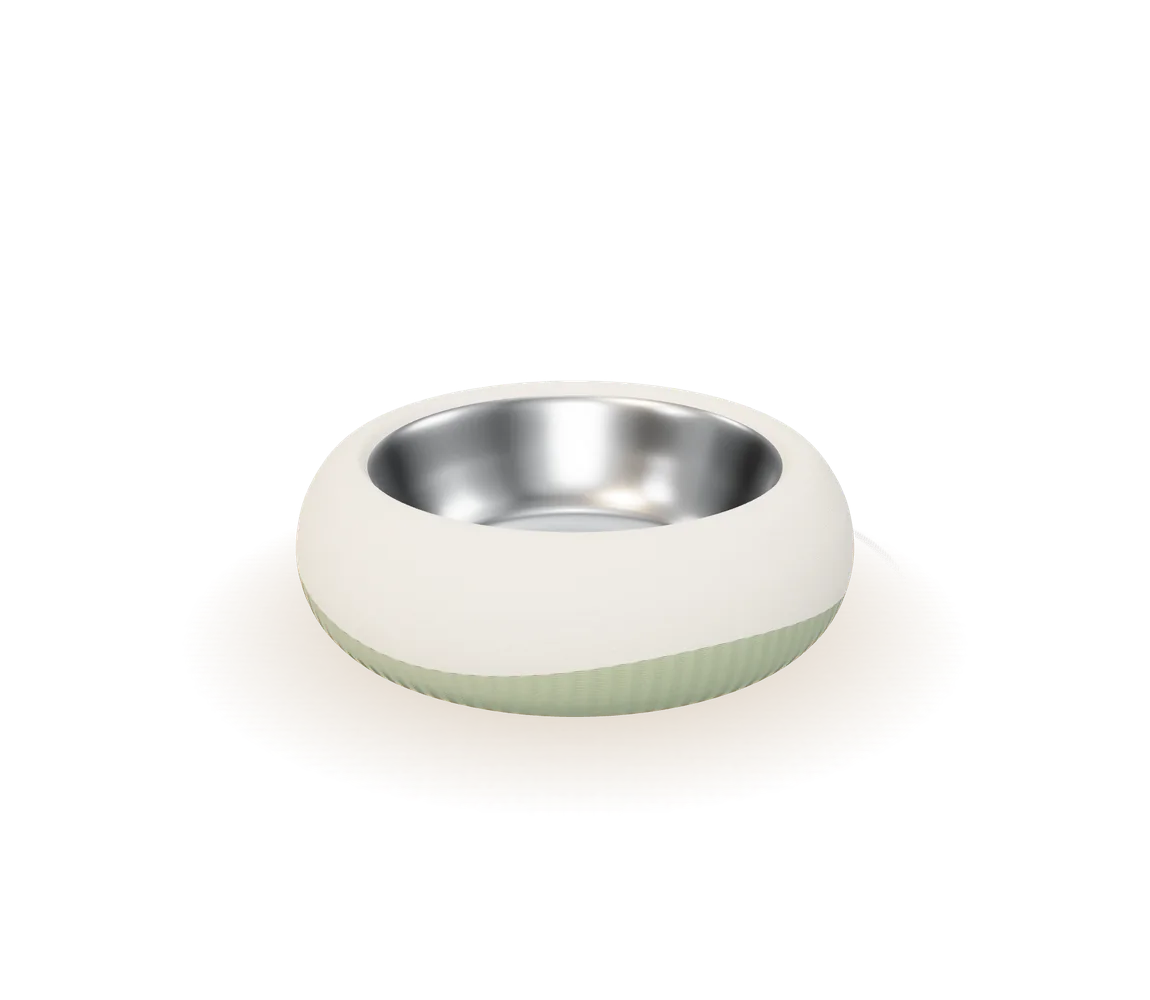
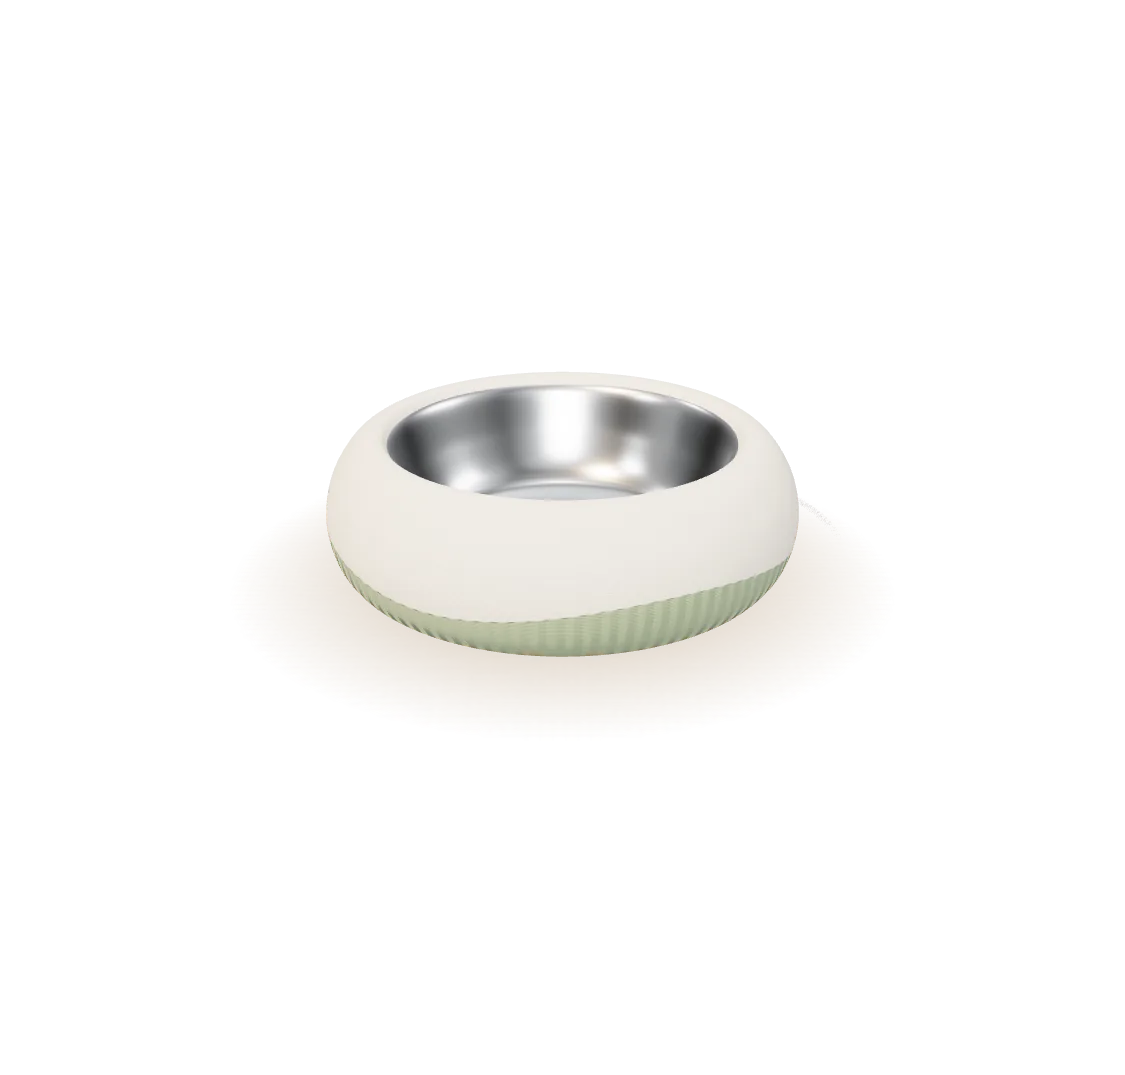
Hero: name input up front, pour plays once on load, still pictures for slow phones
No scroll pinning. Old/slow devices (low memory/cores, save-data, slow network,
reduced motion, no WebGL, or low frame rate) get rendered stills with the name
laid over instead of three.js. ?lite forces the still version.

Claude-Session: https://claude.ai/code/session_01FGLmkHJQ1jRMkP6nvSWdRq

Changed region(s): [[0.2178, 0.341, 0.7778, 0.775], [0.28, 0.496, 0.3111, 0.527], [0.2489, 0.465, 0.28, 0.496]]

diff --git a/app/components/PourHero.vue b/app/components/PourHero.vue
@@ -1,167 +1,214 @@
 <script setup lang="ts">
-// The homepage moment: scroll pours kibble into a 3D bowl, then the pet's name
-// is engraved on it, then the visitor types their own pet's name and picks a colour.
+// The homepage hero: the visitor types their pet's name and sees it on the bowl straight away.
+// Capable devices get the live 3D bowl (the scoop pours kibble in once on load, then the name
+// is engraved); old/slow phones get a still picture of the full bowl with the name laid over it.
 import type { BowlScene } from '~/utils/bowl3d'
+import { canRun3D } from '~/utils/heroMode'
 
-const COLOURS: { name: string; c: [string, string] }[] = [
-  { name: 'Мляко и салвия', c: ['#efe6d6', '#8fa27c'] },
-  { name: 'Мляко и розово', c: ['#efe6d6', '#e3a9a3'] },
-  { name: 'Мляко и теракота', c: ['#efe6d6', '#c4704f'] },
-  { name: 'Мляко и графит', c: ['#efe6d6', '#45484a'] },
-  { name: 'Мляко и какао', c: ['#efe6d6', '#6e4630'] },
+const COLOURS: { name: string; key: string; c: [string, string] }[] = [
+  { name: 'Мляко и салвия', key: 'salvia', c: ['#efe6d6', '#8fa27c'] },
+  { name: 'Мляко и розово', key: 'rozovo', c: ['#efe6d6', '#e3a9a3'] },
+  { name: 'Мляко и теракота', key: 'terakota', c: ['#efe6d6', '#c4704f'] },
+  { name: 'Мляко и графит', key: 'grafit', c: ['#efe6d6', '#45484a'] },
+  { name: 'Мляко и какао', key: 'kakao', c: ['#efe6d6', '#6e4630'] },
 ]
 const DEMO = 'ЛУНА'
+const POUR_MS = 3400
 
-const section = ref<HTMLElement>()
+// Still pictures (rendered from the 3D scene). `name` is where the name sits on the bowl,
+// in image pixels: centre, available width, letter height.
+const STILLS = {
+  wide: { media: '(min-aspect-ratio: 23/20)', w: 2400, h: 1166, name: { x: 1501, y: 730, w: 233, size: 76 } },
+  mid: { media: '(min-aspect-ratio: 4/5)', w: 1125, h: 1075, name: { x: 558, y: 584, w: 173, size: 57 } },
+  tall: { media: '', w: 750, h: 1360, name: { x: 370, y: 640, w: 149, size: 49 } },
+} as const
+type StillKey = keyof typeof STILLS
+
+const wall = ref<HTMLElement>()
 const stage = ref<HTMLElement>()
-const p = ref(0)
-const ready = ref(false)
+const live = ref(false)      // the 3D canvas is showing
+const lite = ref(false)      // still picture with the name laid over it
 const name = ref('')
 const colour = ref(0)
+const shownName = computed(() => (name.value.trim() || DEMO).toUpperCase())
 let bowl: BowlScene | null = null
-let st: { kill: () => void } | null = null
 let io: IntersectionObserver | null = null
+let raf = 0
 
-const clamp = (v: number) => Math.min(1, Math.max(0, v))
-const step = (a: number, b: number) => clamp((p.value - a) / (b - a))
-// visibility of each caption: fades in over [a,b], out over [c,d]
-const show = (a: number, b: number, c: number, d: number) => Math.min(step(a, b), 1 - step(c, d))
-
-const finalOn = computed(() => p.value > 0.8)
 const configLink = computed(() => ({ path: '/personalize', query: { name: name.value.trim() || undefined, color: colour.value || undefined } }))
 
-watch(name, v => bowl?.set({ name: v.trim() || DEMO }))
+watch(shownName, v => bowl?.set({ name: v }))
 watch(colour, i => bowl?.set({ colours: COLOURS[i]!.c }))
 
-// Start downloading three.js + GSAP during hydration instead of after mount
-const libs = import.meta.client
-  ? Promise.all([import('~/utils/bowl3d'), import('gsap'), import('gsap/ScrollTrigger')])
-  : null
+// --- still picture: which one is showing, and where the name goes on screen ---
+const still = ref<StillKey>('wide')
+const box = ref({ w: 0, h: 0 })
+const stillSrc = (k: StillKey, c = colour.value) => `/img/hero/full-${COLOURS[c]!.key}-${k}.webp`
+const namePos = computed(() => {
+  const s = STILLS[still.value], { w, h } = box.value
+  if (!w || !s.name.w) return null
+  const k = Math.max(w / s.w, h / s.h) // object-fit: cover
+  const dx = (w - s.w * k) / 2, dy = (h - s.h * k) / 2
+  const len = shownName.value.length
+  return {
+    left: `${dx + s.name.x * k}px`, top: `${dy + s.name.y * k}px`,
+    fontSize: `${s.name.size * k * (len > 6 ? 6 / len : 1)}px`,
+  }
+})
+let ro: ResizeObserver | null = null
+function measure() {
+  const el = wall.value
+  if (!el) return
+  box.value = { w: el.clientWidth, h: el.clientHeight }
+  // same thresholds the 3D scene uses to frame the bowl
+  const a = el.clientWidth / el.clientHeight
+  still.value = a > 1.15 ? 'wide' : a >= 0.8 ? 'mid' : 'tall'
+}
+
+function goLite() {
+  lite.value = true
+  live.value = false
+  cancelAnimationFrame(raf)
+  io?.disconnect()
+  bowl?.dispose(); bowl = null
+}
+
+// Plays the pour once: kibble falls in, then the name is engraved, the bowl turns to face you.
+function pour(scene: BowlScene) {
+  const apply = (v: number) => scene.setProgress(Math.min(1, v / 0.62), Math.min(1, Math.max(0, (v - 0.6) / 0.18)), -1.1 + 1.1 * Math.min(1, v / 0.78) ** 0.8, Math.min(1, v / 0.75))
+  apply(0)
+  let t0 = 0, last = 0
+  const slow: number[] = []
+  const tick = (t: number) => {
+    if (!t0) { t0 = t + 250; last = t }
+    // Watchdog: if this phone can't keep up (frames slower than ~25 fps), switch to the still picture
+    if (slow.length < 24) { slow.push(t - last); if (slow.length === 24 && slow.slice(4).sort((a, b) => a - b)[10]! > 40) return goLite() }
+    last = t
+    const v = Math.min(1, Math.max(0, (t - t0) / POUR_MS))
+    apply(v < 0.5 ? 2 * v * v : 1 - (-2 * v + 2) ** 2 / 2)
+    if (v < 1) raf = requestAnimationFrame(tick)
+  }
+  raf = requestAnimationFrame(tick)
+}
 
 onMounted(async () => {
-  const [{ BowlScene }, { gsap }, { ScrollTrigger }] = await libs!
-  bowl = new BowlScene(stage.value!, { colours: COLOURS[0]!.c, name: DEMO, shape: 'wave' })
-  if (import.meta.dev) (window as unknown as { __bowl: unknown }).__bowl = bowl // dev only: poster capture
-  const { $reducedMotion } = useNuxtApp()
-  const apply = () => {
-    const v = p.value
-    bowl!.setProgress(clamp(v / 0.62), clamp((v - 0.6) / 0.18), -1.1 + 1.1 * clamp(v / 0.78) ** 0.8, clamp(v / 0.75))
-  }
-  if ($reducedMotion) { p.value = 1; apply() }
-  else {
-    gsap.registerPlugin(ScrollTrigger)
-    st = ScrollTrigger.create({
-      trigger: section.value!, start: 'top top', end: 'bottom bottom', scrub: 0.15,
-      onUpdate: self => { p.value = self.progress; apply() },
-    })
-    apply()
-  }
+  measure()
+  ro = new ResizeObserver(measure)
+  ro.observe(wall.value!)
+  if (!canRun3D()) { lite.value = true; return }
+  try {
+    const { BowlScene } = await import('~/utils/bowl3d')
+    bowl = new BowlScene(stage.value!, { colours: COLOURS[colour.value]!.c, name: shownName.value, shape: 'wave' })
+  } catch { return goLite() }
+  if (import.meta.dev) (window as unknown as { __bowl: unknown }).__bowl = bowl // dev only: still capture
   document.fonts?.ready.then(() => bowl?.set({}))
   io = new IntersectionObserver(([e]) => bowl?.setVisible(!!e?.isIntersecting))
-  io.observe(section.value!)
-  requestAnimationFrame(() => { ready.value = true })
+  io.observe(wall.value!)
+  requestAnimationFrame(() => { live.value = true; if (bowl) pour(bowl) })
 })
-onBeforeUnmount(() => { st?.kill(); io?.disconnect(); bowl?.dispose(); bowl = null })
+onBeforeUnmount(() => { cancelAnimationFrame(raf); ro?.disconnect(); io?.disconnect(); bowl?.dispose(); bowl = null })
 </script>
 
 <template>
-  <section ref="section" class="pour" aria-label="Купичка boop">
-    <div class="sticky">
-      <div class="wall">
-        <LeafLight :strength=".2" />
-        <!-- First frame of the 3D scene as an image, shown instantly; the canvas fades in over it
-             (rendered from the scene at the same framing: wide / square-ish / tall screens) -->
-        <picture class="poster" :class="{ gone: ready }" aria-hidden="true">
-          <source media="(min-aspect-ratio: 23/20)" srcset="/img/hero/bowl-wide.webp">
-          <source media="(min-aspect-ratio: 4/5)" srcset="/img/hero/bowl-mid.webp">
-          <img src="/img/hero/bowl-tall.webp" alt="" fetchpriority="high" decoding="async">
-        </picture>
-        <div ref="stage" class="stage" :class="{ ready }" aria-hidden="true" />
+  <section class="hero" aria-label="Купичка с името на любимеца">
+    <div ref="wall" class="wall">
+      <LeafLight :strength=".2" />
 
-        <div class="captions">
-          <div class="cap first" :style="{ opacity: 1 - step(0.06, 0.16), transform: `translateY(${-step(0.06, 0.16) * 30}px)` }">
-            <h1 class="display">Звукът, който всяко куче познава.</h1>
-            <p class="lead">Купички и лъжички с името на любимеца, изработени в България. Скролни и ги напълни.</p>
-          </div>
-          <div class="cap" :style="{ opacity: show(0.2, 0.28, 0.48, 0.56) }">
-            <h2 class="h2">Инокс отвътре.<br>Мекота отвън.</h2>
-            <p class="lead">Храната докосва само иноксова купа, която се вади и мие в съдомиялна.</p>
-          </div>
-          <div class="cap" :style="{ opacity: show(0.58, 0.64, 0.76, 0.82) }">
-            <h2 class="h2">А отпред е неговото име.</h2>
-            <p class="lead">Гравираме го в самата купичка. На кирилица или латиница.</p>
-          </div>
-          <div class="cap final" :class="{ on: finalOn }" :style="{ opacity: step(0.8, 0.88) }">
-            <h2 class="h2">Как се казва твоят?</h2>
-            <label class="name">
-              <span class="visually-hidden">Име на любимеца</span>
-              <input v-model="name" maxlength="8" placeholder="ЛУНА" autocomplete="off" :tabindex="finalOn ? 0 : -1">
-            </label>
-            <div class="sws" role="radiogroup" aria-label="Цвят">
-              <button v-for="(c, i) in COLOURS" :key="c.name" role="radio" :aria-checked="colour === i" :aria-label="c.name" :title="c.name"
-                :class="{ on: colour === i }" :style="{ background: `linear-gradient(135deg, ${c.c[0]} 50%, ${c.c[1]} 50%)` }" :tabindex="finalOn ? 0 : -1" @click="colour = i" />
-            </div>
-            <NuxtLink :to="configLink" class="btn btn-solid" :tabindex="finalOn ? 0 : -1">Създай своята купичка</NuxtLink>
-          </div>
-        </div>
+      <!-- Before the 3D is ready (and on slow phones): pictures rendered from the same scene -->
+      <picture v-if="!lite" class="still" :class="{ gone: live }" aria-hidden="true">
+        <source :media="STILLS.wide.media" srcset="/img/hero/bowl-wide.webp">
+        <source :media="STILLS.mid.media" srcset="/img/hero/bowl-mid.webp">
+        <img src="/img/hero/bowl-tall.webp" alt="" fetchpriority="high" decoding="async">
+      </picture>
+      <template v-else>
+        <img class="still" :src="stillSrc(still)" alt="" decoding="async">
+        <span v-if="namePos" class="engraved" :style="namePos" aria-hidden="true">{{ shownName }}</span>
+      </template>
+      <div ref="stage" class="stage" :class="{ live }" aria-hidden="true" />
 
-        <div class="hint" :style="{ opacity: 1 - step(0.02, 0.08) }" aria-hidden="true"><span />Скролни</div>
-        <div class="bar" aria-hidden="true"><span :style="{ transform: `scaleX(${p})` }" /></div>
+      <div class="copy">
+        <h1 class="display">Звукът, който всяко куче познава.</h1>
+        <p class="lead">Купички и лъжички с името на любимеца, изработени в България.</p>
       </div>
+
+      <form class="make" @submit.prevent="navigateTo(configLink)">
+        <label class="name">
+          <span>Как се казва твоят?</span>
+          <input v-model="name" maxlength="8" placeholder="ЛУНА" autocomplete="off" enterkeyhint="go">
+        </label>
+        <div class="sws" role="radiogroup" aria-label="Цвят на купичката">
+          <button v-for="(c, i) in COLOURS" :key="c.name" type="button" role="radio" :aria-checked="colour === i" :aria-label="c.name" :title="c.name"
+            :class="{ on: colour === i }" :style="{ background: `linear-gradient(135deg, ${c.c[0]} 50%, ${c.c[1]} 50%)` }" @click="colour = i" />
+        </div>
+        <NuxtLink :to="configLink" class="btn btn-solid">Създай купичката</NuxtLink>
+      </form>
     </div>
   </section>
 </template>
 
 <style scoped>
-.pour { height: 260vh; position: relative; }
-.sticky { position: sticky; top: 0; height: 100vh; height: 100svh; padding: 12px; }
+.hero { padding: 12px; }
 .wall {
-  position: relative; height: 100%; border-radius: 32px; overflow: hidden; isolation: isolate;
+  position: relative; height: calc(100svh - var(--hero-top, 146px)); min-height: 560px; border-radius: 32px; overflow: hidden; isolation: isolate;
   /* the warm sunlit plaster wall and oak floor of the product photos */
   background:
     radial-gradient(120% 80% at 15% 10%, rgba(255, 214, 160, .55), transparent 55%),
     radial-gradient(90% 60% at 62% 78%, rgba(255, 222, 180, .35), transparent 70%),
     linear-gradient(180deg, #cf9469 0%, #c58659 55%, #b77548 100%);
 }
+.still { position: absolute; inset: 0; width: 100%; height: 100%; transition: opacity .35s ease-out .1s; }
+.still :deep(img), img.still { width: 100%; height: 100%; object-fit: cover; }
+.still.gone { opacity: 0; }
 .stage { position: absolute; inset: 0; opacity: 0; transition: opacity .35s ease-out; }
-.poster { position: absolute; inset: 0; transition: opacity .35s ease-out .1s; }
-.poster img { width: 100%; height: 100%; object-fit: cover; }
-.poster.gone { opacity: 0; }
-.stage.ready { opacity: 1; }
+.stage.live { opacity: 1; }
 .stage :deep(canvas) { width: 100% !important; height: 100% !important; display: block; }
-.captions { position: absolute; inset: 0; pointer-events: none; color: #fff8ee; }
-.cap { position: absolute; left: clamp(20px, 6vw, 96px); top: 50%; translate: 0 -50%; max-width: min(560px, 44vw); }
-.cap .lead { color: rgba(255, 248, 238, .86); margin-top: 18px; }
-.cap h1, .cap h2 { text-shadow: 0 2px 30px rgba(90, 40, 10, .25); }
-.final { pointer-events: none; }
-.final.on { pointer-events: auto; }
+/* the name on the still picture, shaded like the 3D engraving */
+.engraved {
+  position: absolute; translate: -50% -50%; text-align: center; white-space: nowrap; pointer-events: none;
+  font-family: var(--sans); font-weight: 600; letter-spacing: .14em; line-height: 1; text-indent: .14em;
+  color: rgba(140, 124, 102, .4); text-shadow: 0 1px 0 rgba(255, 255, 255, .35), 0 -1px 0 rgba(60, 40, 20, .18);
+}
+
+.copy, .make { position: absolute; left: clamp(20px, 6vw, 96px); max-width: min(520px, 44vw); color: #fff8ee; }
+.copy { top: clamp(40px, 12%, 120px); }
+.copy h1 { font-size: clamp(44px, 5vw, 80px); text-shadow: 0 2px 30px rgba(90, 40, 10, .25); }
+.copy .lead { color: rgba(255, 248, 238, .86); margin-top: 18px; }
+.make { bottom: clamp(32px, 10%, 110px); }
+.name { display: grid; gap: 12px; }
+.name span { font-size: 17px; font-weight: 500; }
 .name input {
-  margin-top: 26px; width: min(420px, 100%); height: 76px; border-radius: 20px; border: 1.5px solid rgba(255,255,255,.55);
+  width: min(400px, 100%); height: 72px; border-radius: 20px; border: 1.5px solid rgba(255,255,255,.55);
   background: rgba(255, 248, 238, .16); backdrop-filter: blur(14px); -webkit-backdrop-filter: blur(14px);
-  color: #fff; padding: 0 24px; font: 600 34px var(--sans); letter-spacing: .14em; text-transform: uppercase; outline: none;
+  color: #fff; padding: 0 24px; font: 600 32px var(--sans); letter-spacing: .14em; text-transform: uppercase; outline: none;
 }
 .name input::placeholder { color: rgba(255,255,255,.5); }
 .name input:focus { border-color: #fff; background: rgba(255, 248, 238, .24); }
-.sws { display: flex; gap: 12px; margin: 22px 0 28px; }
+.sws { display: flex; gap: 12px; margin: 20px 0 24px; }
 .sws button { width: 36px; height: 36px; border-radius: 50%; box-shadow: inset 0 0 0 1px rgba(0,0,0,.15); transition: transform .2s; }
 .sws button:hover { transform: scale(1.1); }
 .sws button.on { outline: 2px solid #fff; outline-offset: 3px; }
-.final .btn { background: var(--paper); color: var(--moss); }
-.hint { position: absolute; left: 50%; bottom: 28px; translate: -50% 0; color: #fff8ee; font-size: 13px; letter-spacing: .2em; display: grid; justify-items: center; gap: 10px; }
-.hint span { width: 1.5px; height: 40px; background: linear-gradient(#fff8ee, transparent); animation: drip 1.8s var(--ease) infinite; transform-origin: top; }
-@keyframes drip { 0% { transform: scaleY(0); } 50% { transform: scaleY(1); } 100% { transform: scaleY(1); opacity: 0; } }
-.bar { position: absolute; left: 24px; right: 24px; bottom: 14px; height: 2px; background: rgba(255,255,255,.18); border-radius: 2px; overflow: hidden; }
-.bar span { display: block; height: 100%; background: #fff8ee; transform-origin: left; }
-@media (max-width: 760px) {
-  .sticky { padding: 6px; }
-  .wall { border-radius: 22px; }
-  .cap { top: 9%; translate: 0 0; max-width: none; right: 20px; }
-  .cap .display { font-size: 42px; }
-  .cap .h2 { font-size: 34px; }
-  .final { top: auto; bottom: 34px; }
-  .name input { height: 60px; font-size: 26px; margin-top: 14px; }
-  .sws { margin: 14px 0 16px; }
-  .hint { display: none; }
+.sws button:focus-visible { outline: 2px solid #fff; outline-offset: 3px; }
+.make .btn { background: var(--paper); color: var(--moss); }
+
+/* Squarer and tall screens: name at the top, bowl in the middle, form at the bottom */
+@media (max-aspect-ratio: 23/20) {
+  .copy, .make { right: clamp(20px, 6vw, 96px); max-width: none; }
+  .copy { top: clamp(24px, 5%, 64px); }
+  .copy .lead { max-width: 460px; }
+  .make { bottom: clamp(20px, 4%, 48px); display: grid; grid-template-columns: 1fr auto; align-items: end; column-gap: 16px; }
+  .make .name { grid-column: 1 / -1; }
+  .make .sws { margin: 14px 0 0; }
+  .make .btn { margin-top: 14px; }
 }
-@media (prefers-reduced-motion: reduce) { .pour { height: auto; } .sticky { position: relative; height: 90vh; } }
+@media (max-width: 760px) {
+  .hero { padding: 6px; }
+  .wall { height: calc(100svh - 149px); min-height: 540px; border-radius: 22px; }
+  .copy .display { font-size: 38px; }
+  .copy .lead { font-size: 16px; margin-top: 10px; }
+  .name span { font-size: 15px; }
+  .name input { width: 100%; height: 58px; font-size: 24px; }
+  .make { grid-template-columns: 1fr; }
+  .make .sws { justify-content: space-between; max-width: 300px; }
+  .make .btn { width: 100%; }
+}
 </style>

diff --git a/app/utils/heroMode.ts b/app/utils/heroMode.ts
@@ -1,0 +1,20 @@
+/**
+ * Should this device get the live 3D bowl, or the still picture?
+ * Old/cheap Android phones (little memory, few cores), data-saver or slow networks,
+ * reduced motion and missing WebGL all get the picture, and never download three.js.
+ */
+export function canRun3D(): boolean {
+  if (!import.meta.client) return false
+  if (new URLSearchParams(location.search).has('lite')) return false // boop.bg/?lite shows the still version
+  const nav = navigator as Navigator & { deviceMemory?: number; connection?: { saveData?: boolean; effectiveType?: string } }
+  if (nav.connection?.saveData) return false
+  if (/2g|3g/.test(nav.connection?.effectiveType ?? '')) return false
+  if (nav.deviceMemory && nav.deviceMemory < 4) return false
+  if (nav.hardwareConcurrency && nav.hardwareConcurrency < 4) return false
+  if (matchMedia('(prefers-reduced-motion: reduce)').matches) return false
+  try {
+    const c = document.createElement('canvas')
+    if (!(c.getContext('webgl2') || c.getContext('webgl'))) return false
+  } catch { return false }
+  return true
+}

diff --git a/app/utils/bowl3d.ts b/app/utils/bowl3d.ts
@@ -394,11 +394,14 @@ export class BowlScene {
     if (!w || !h) return
     this.renderer.setSize(w, h, false)
     this.camera.aspect = w / h
-    // keep the bowl framed on narrow screens
-    this.camera.fov = w / h < 0.8 ? 46 : 32
-    // leave room for copy: bowl sits right on wide screens, lower on tall ones
-    this.group.position.x = w / h > 1.15 ? this.offsetX : 0
-    this.group.position.y = w / h < 0.8 ? -0.35 : 0
+    // Wide screens: copy on the left, bowl on the right. Squarer and tall screens: copy above,
+    // form below, so the bowl is smaller and sits just under the middle.
+    const a = w / h
+    this.camera.fov = a < 0.8 ? 56 : a <= 1.15 ? 40 : 32
+    this.group.position.x = a > 1.15 ? this.offsetX : 0
+    this.group.position.y = 0
+    if (a <= 1.15) this.camera.setViewOffset(w, h, 0, h * (a < 0.8 ? 0.1 : 0.06), w, h)
+    else this.camera.clearViewOffset()
     this.camera.updateProjectionMatrix()
     this.updateScoop()
     this.dirty = true

diff --git a/app/plugins/hero-3d.client.ts b/app/plugins/hero-3d.client.ts
@@ -1,4 +1,7 @@
-// Start downloading the homepage 3D scene as early as possible (before hydration finishes).
+// Start downloading the homepage 3D scene as early as possible (before hydration finishes),
+// but only on devices that will actually run it.
+import { canRun3D } from '~/utils/heroMode'
+
 export default defineNuxtPlugin(() => {
-  if (useRoute().path === '/') import('~/utils/bowl3d')
+  if (useRoute().path === '/' && canRun3D()) import('~/utils/bowl3d')
 })
